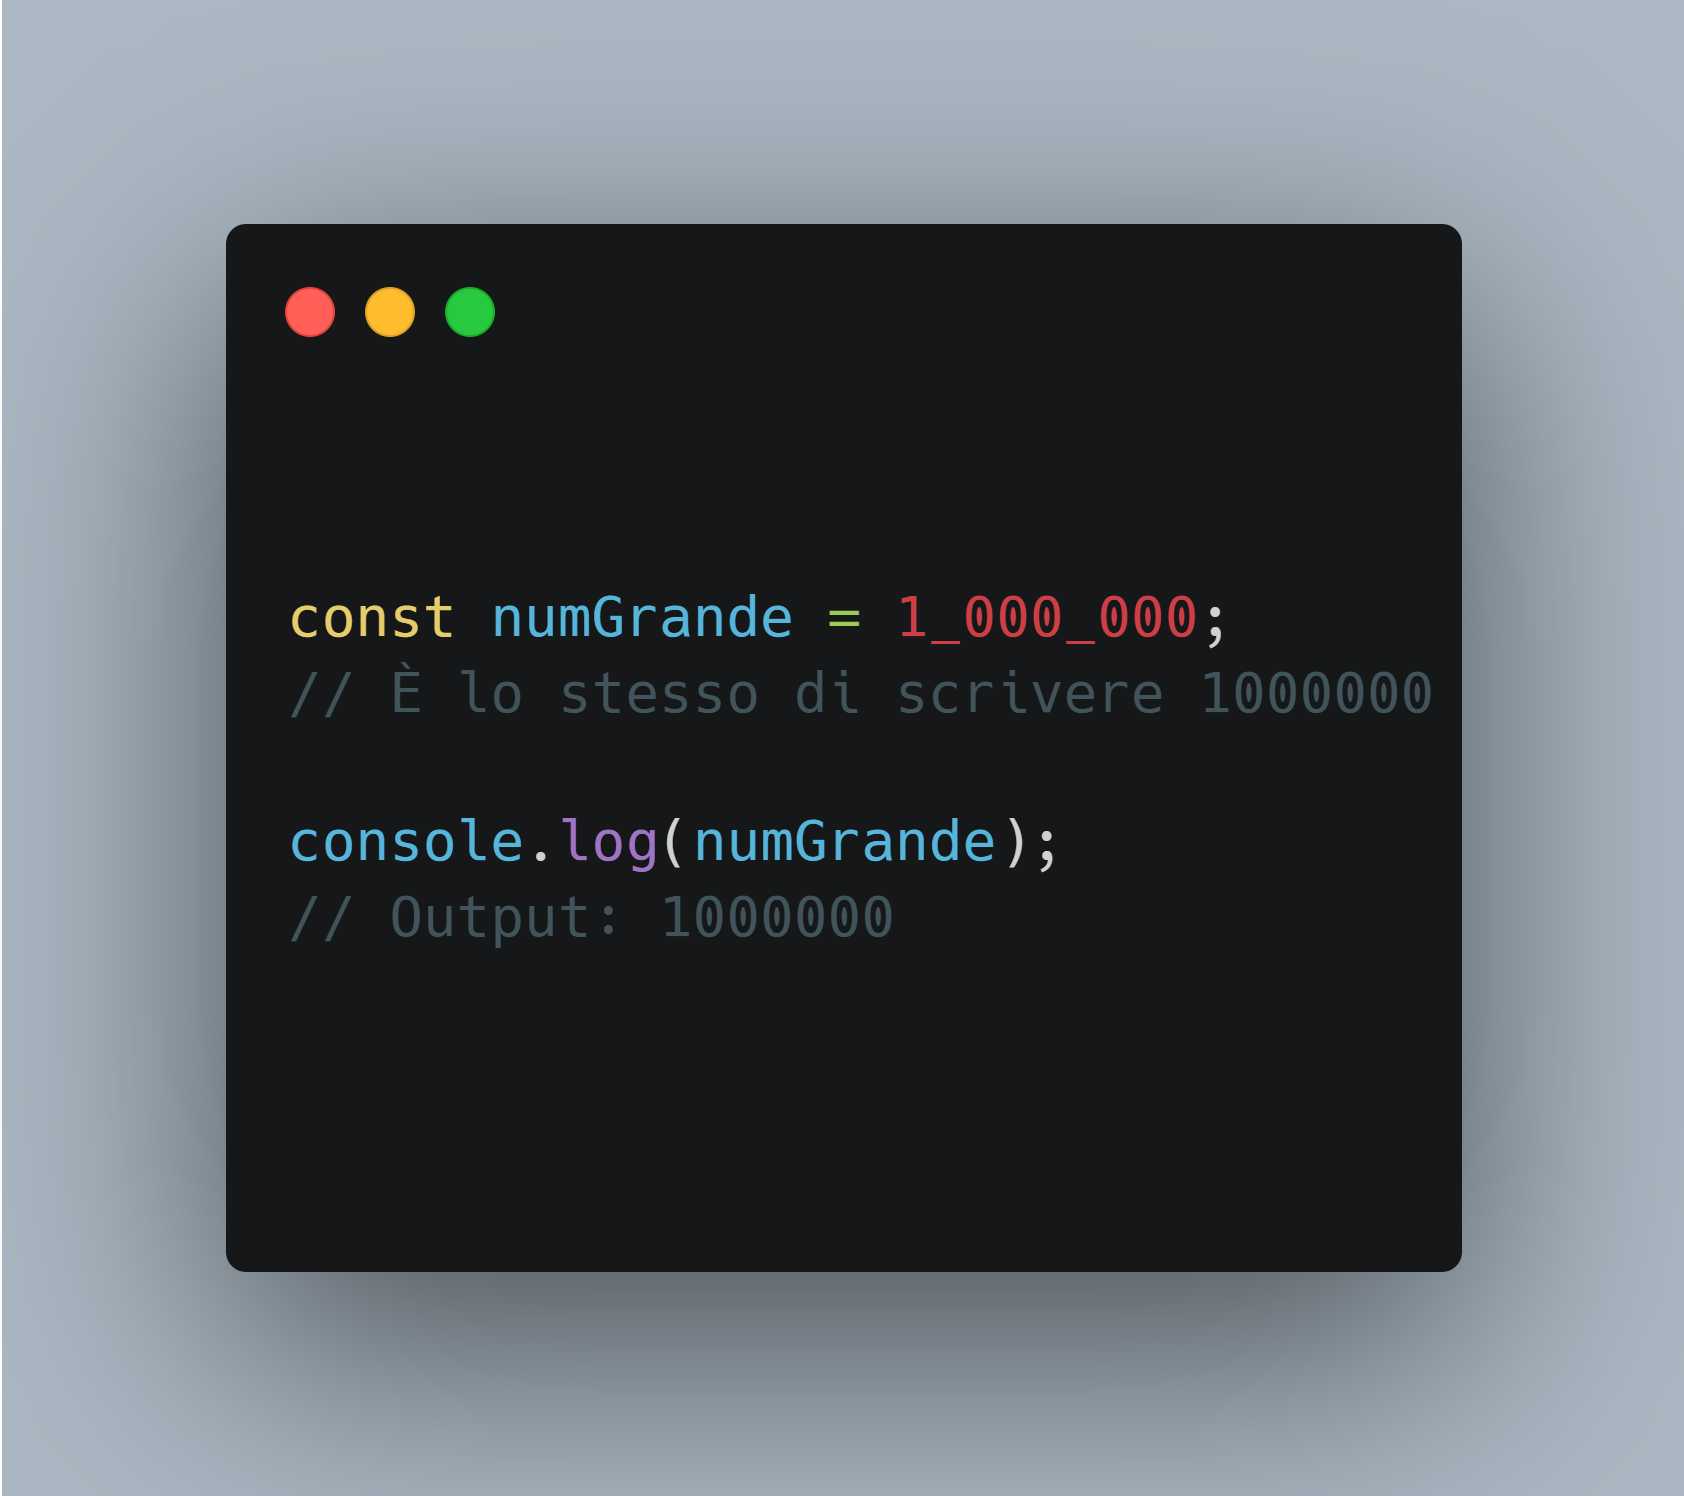
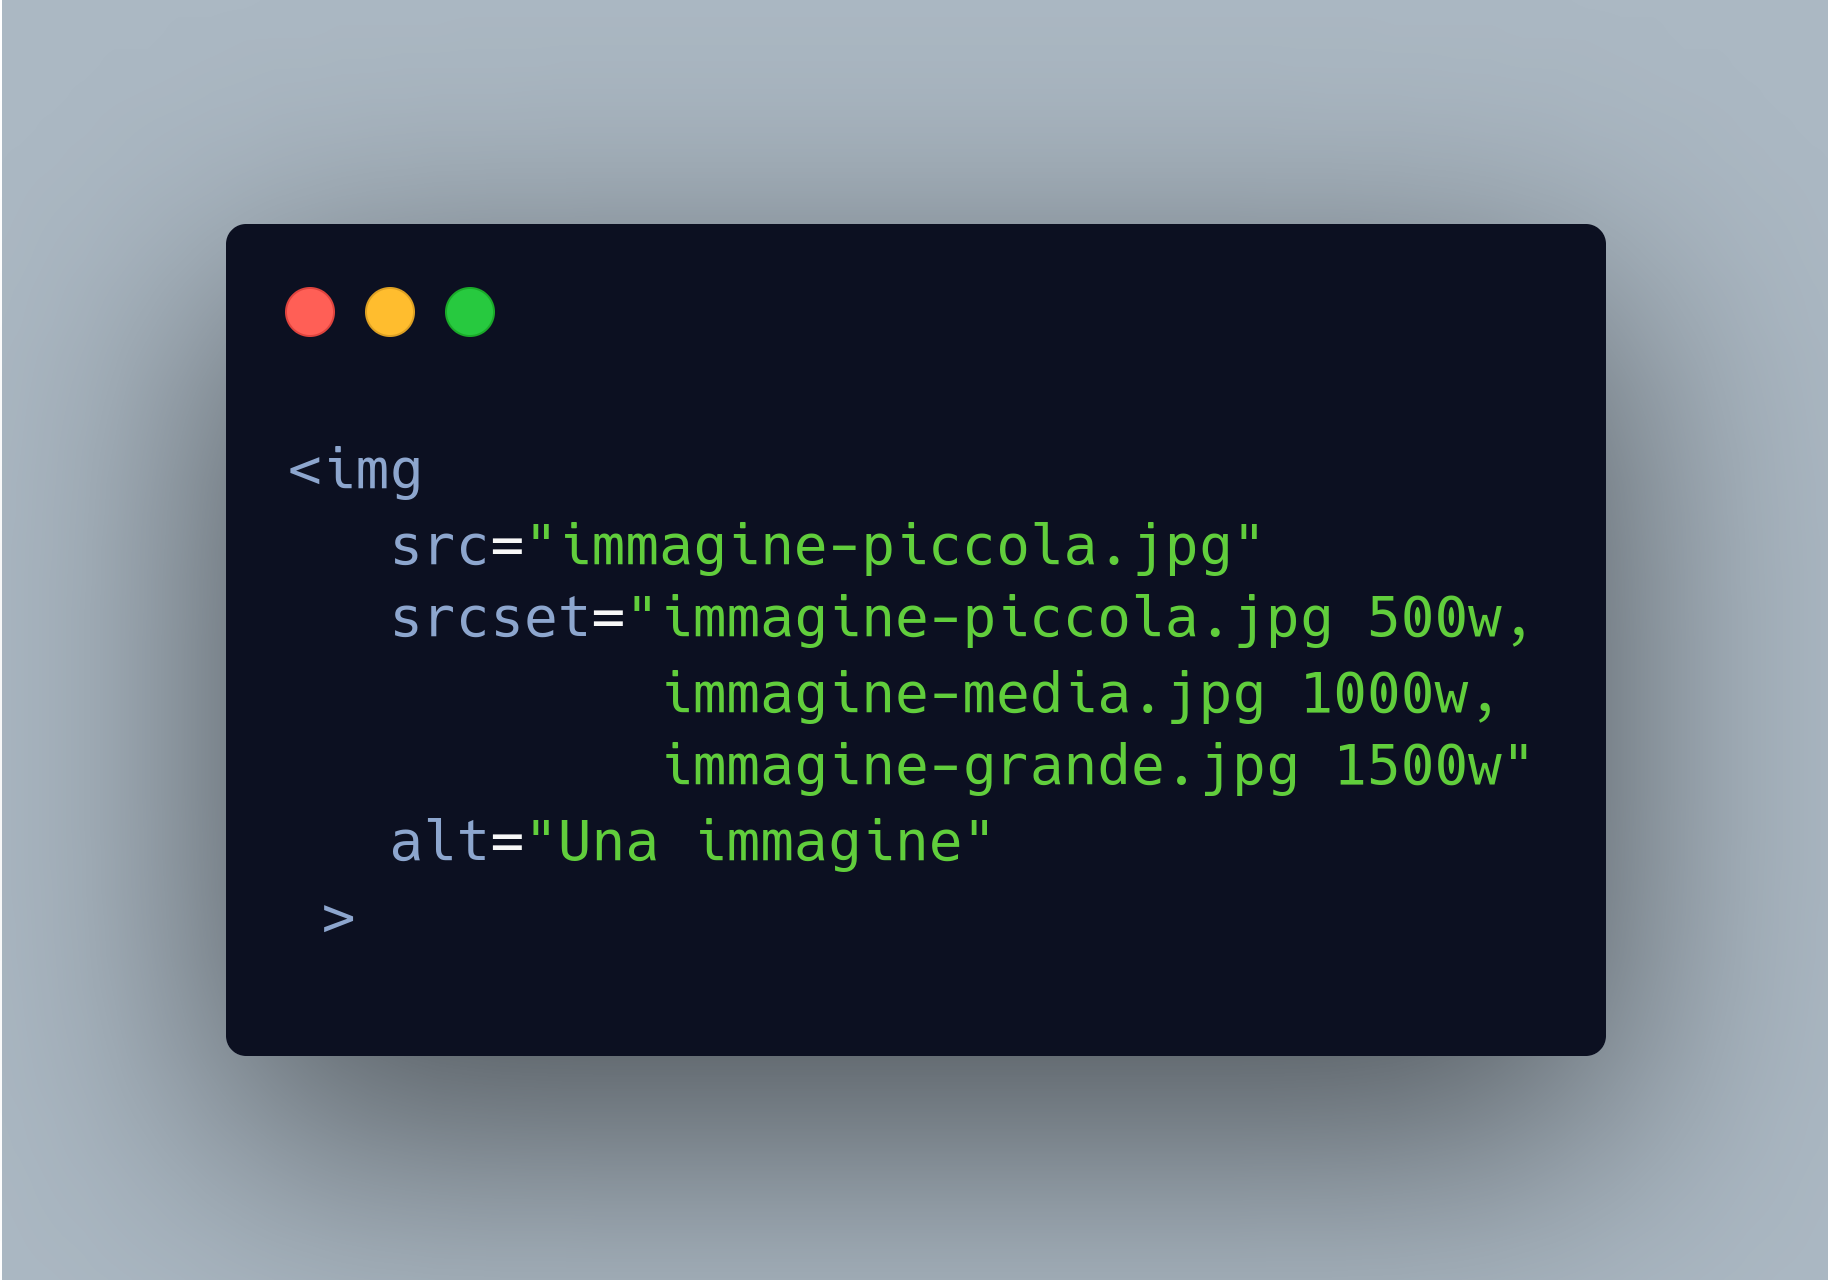
Done

Changed region(s): [[0.1235, 0.125, 0.8955, 0.875]]

diff --git a/index.html b/index.html
@@ -20,19 +20,19 @@
     </header>
     <main>
       <div class="left">
-        <h1><span>Generatori</span> JavaScript</h1>
-        <h2>Scopri le potenzialità dei <br><em>JavaScript Generators</em>!</h2>
+        <h1><span>srcset</span> in HTML5</h1>
+        <h2>Ottimizza il caricamento delle <br><em>immagini responsive</em>!</h2>
         <!-- <div>
           <a class="btn" href="">Scopri l'articolo!</a>
         </div> -->
       </div>
       <div class="right">
-        <img src="./imgs/marisa.jpg" alt="">
+        <img src="./imgs/carbon.png" alt="">
         <div id="img"> </div>
       </div>
     </main>
     <footer>
-      <img src="./imgs/icons/js-min.png" alt="">
+      <img src="./imgs/icons/html-min.png" alt="">
       <span></span>
     </footer>
 </body>

diff --git a/style.css b/style.css
@@ -17,8 +17,8 @@
   --coding: #999999;
   --sec: #96d1f3;
 
-  --topic: var(--js);
-  --cipot: #33a6f5;
+  --topic: var(--html);
+  --cipot: ##3C7EF;
 
   --footer: #255877;
   --footer-height: 2.4rem;
@@ -154,6 +154,7 @@ main h2 span {
 main h1 span {
   color: var(--topic);
   text-transform: uppercase;
+  text-transform: lowercase;
 }
 main .left {
   margin-top: -5rem;
@@ -170,8 +171,8 @@ main img {
   border: 5px solid var(--cipot);
   padding: .4rem;
   border-radius: .4rem;
-  width: 640px;
-  height: 640px;
+  width: 875px;
+  height: auto;
 }
 main #img {
   position: absolute;
